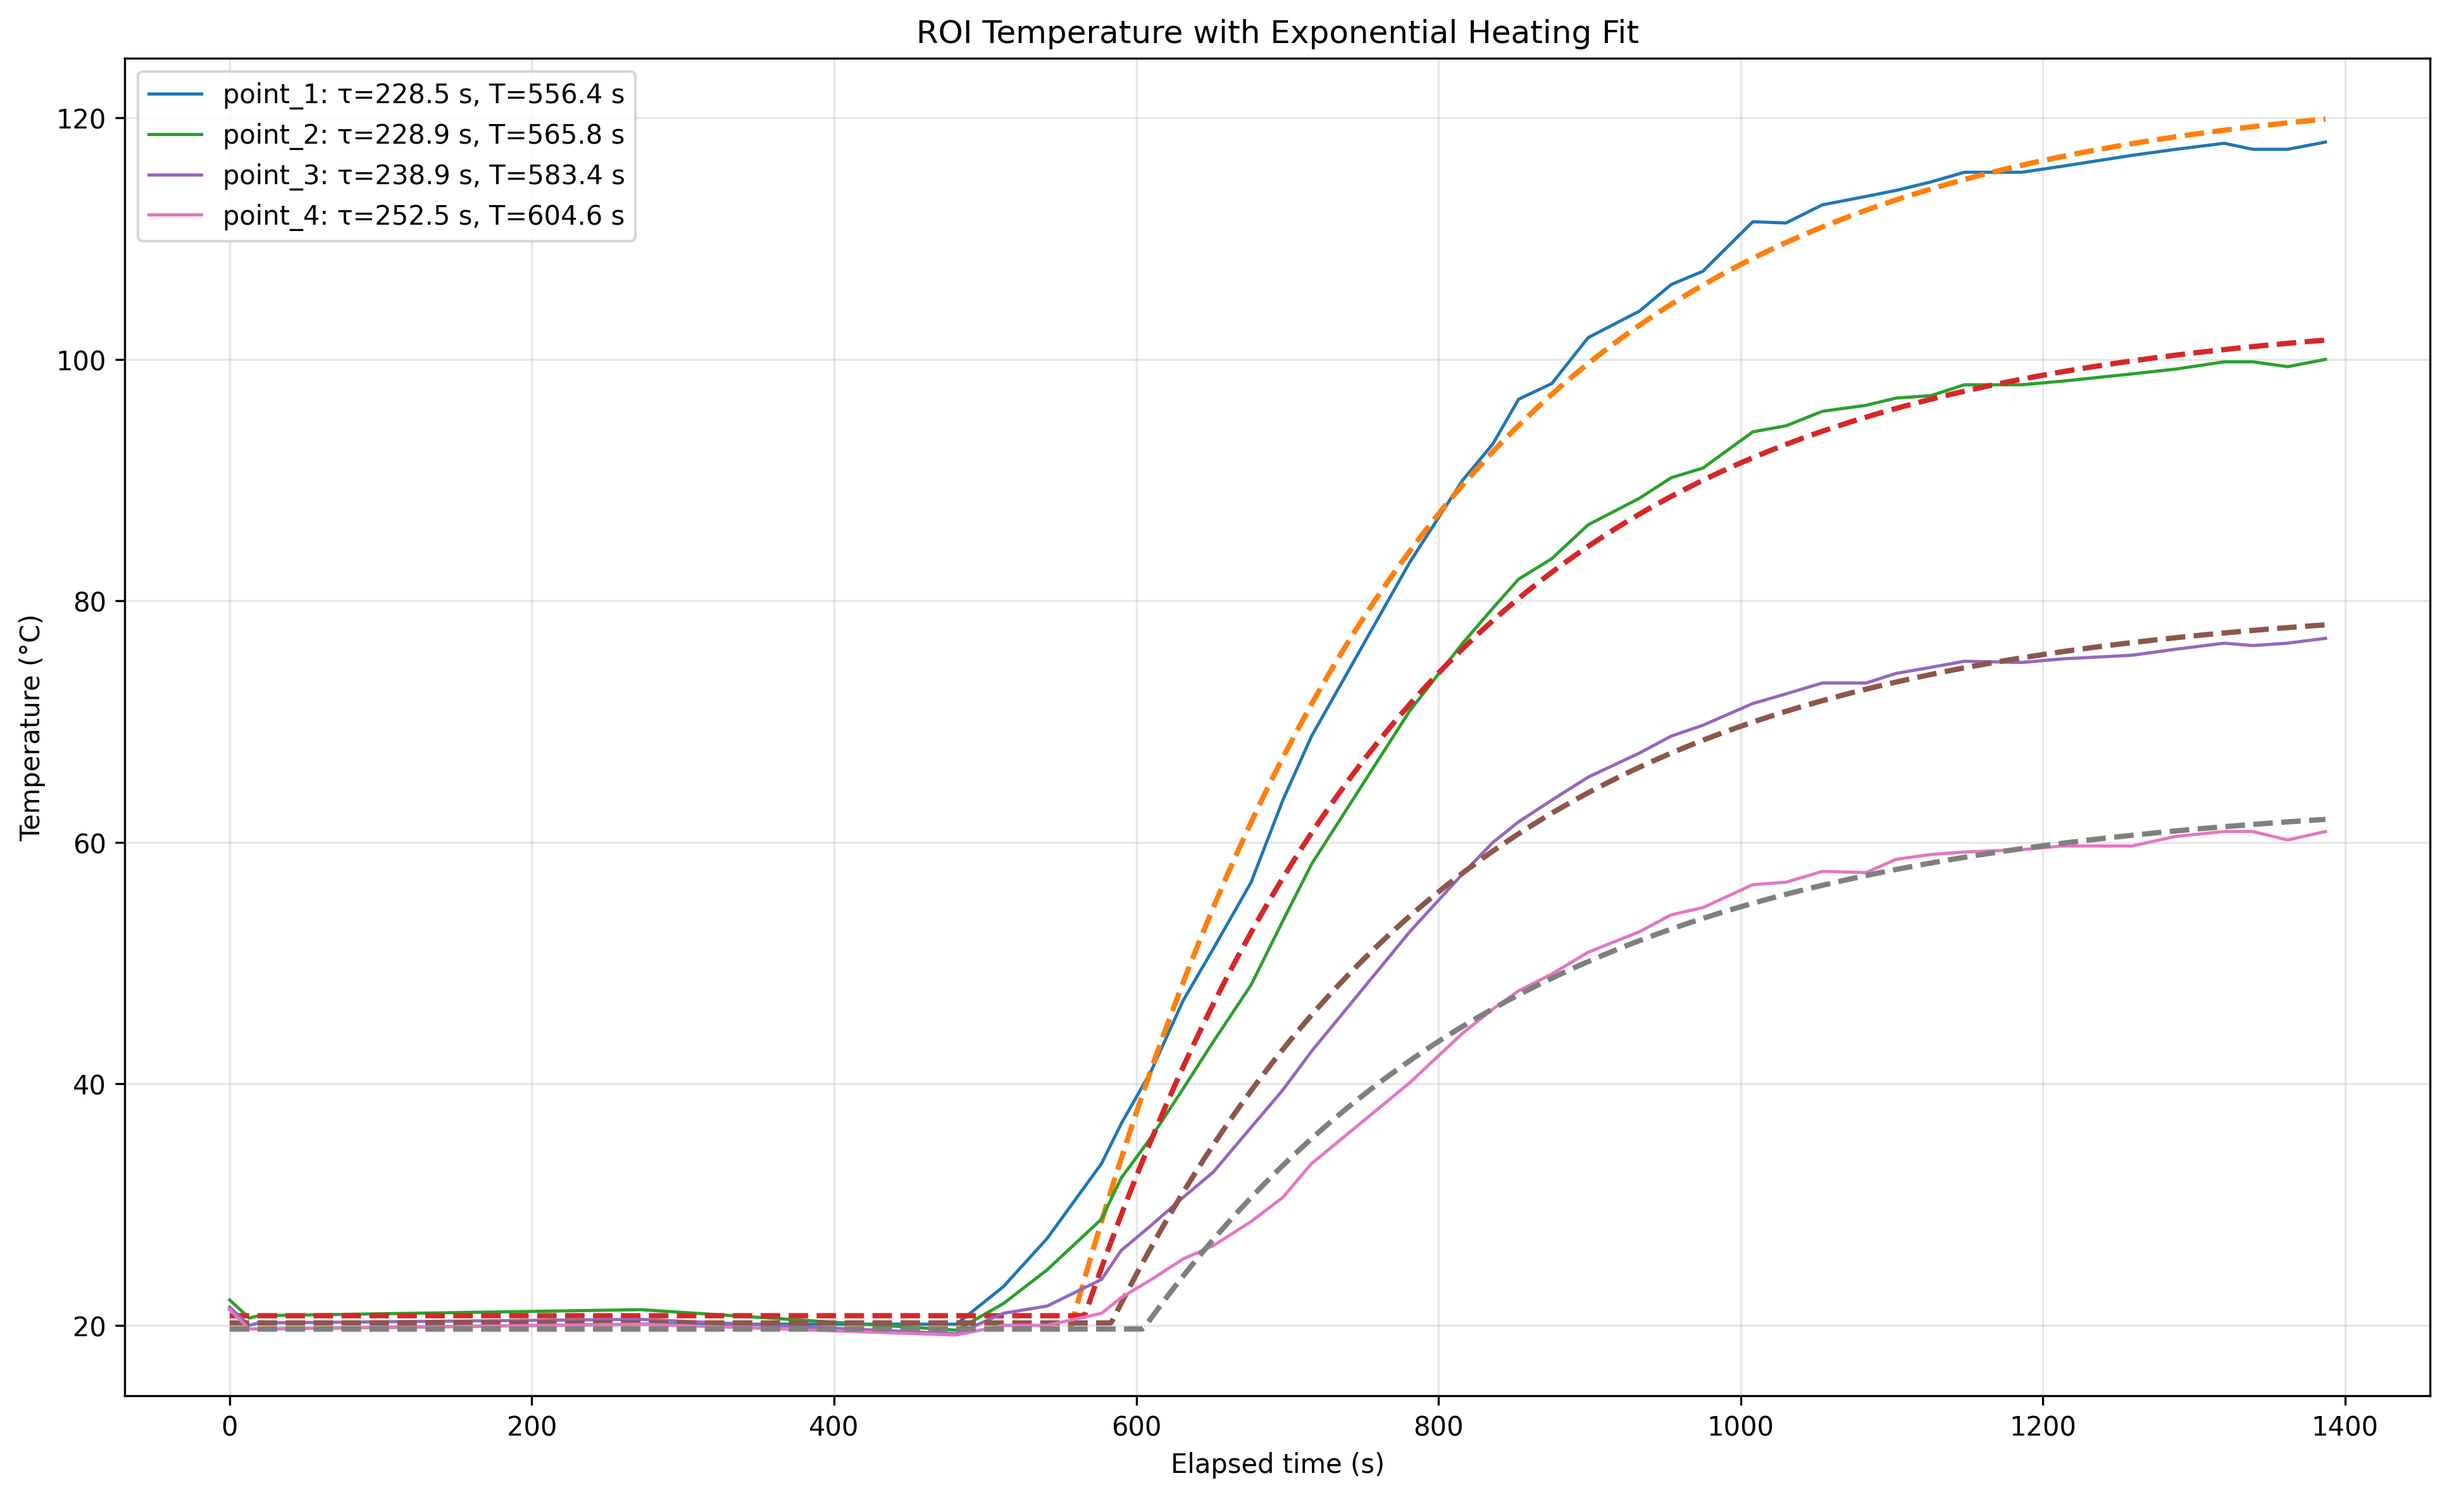
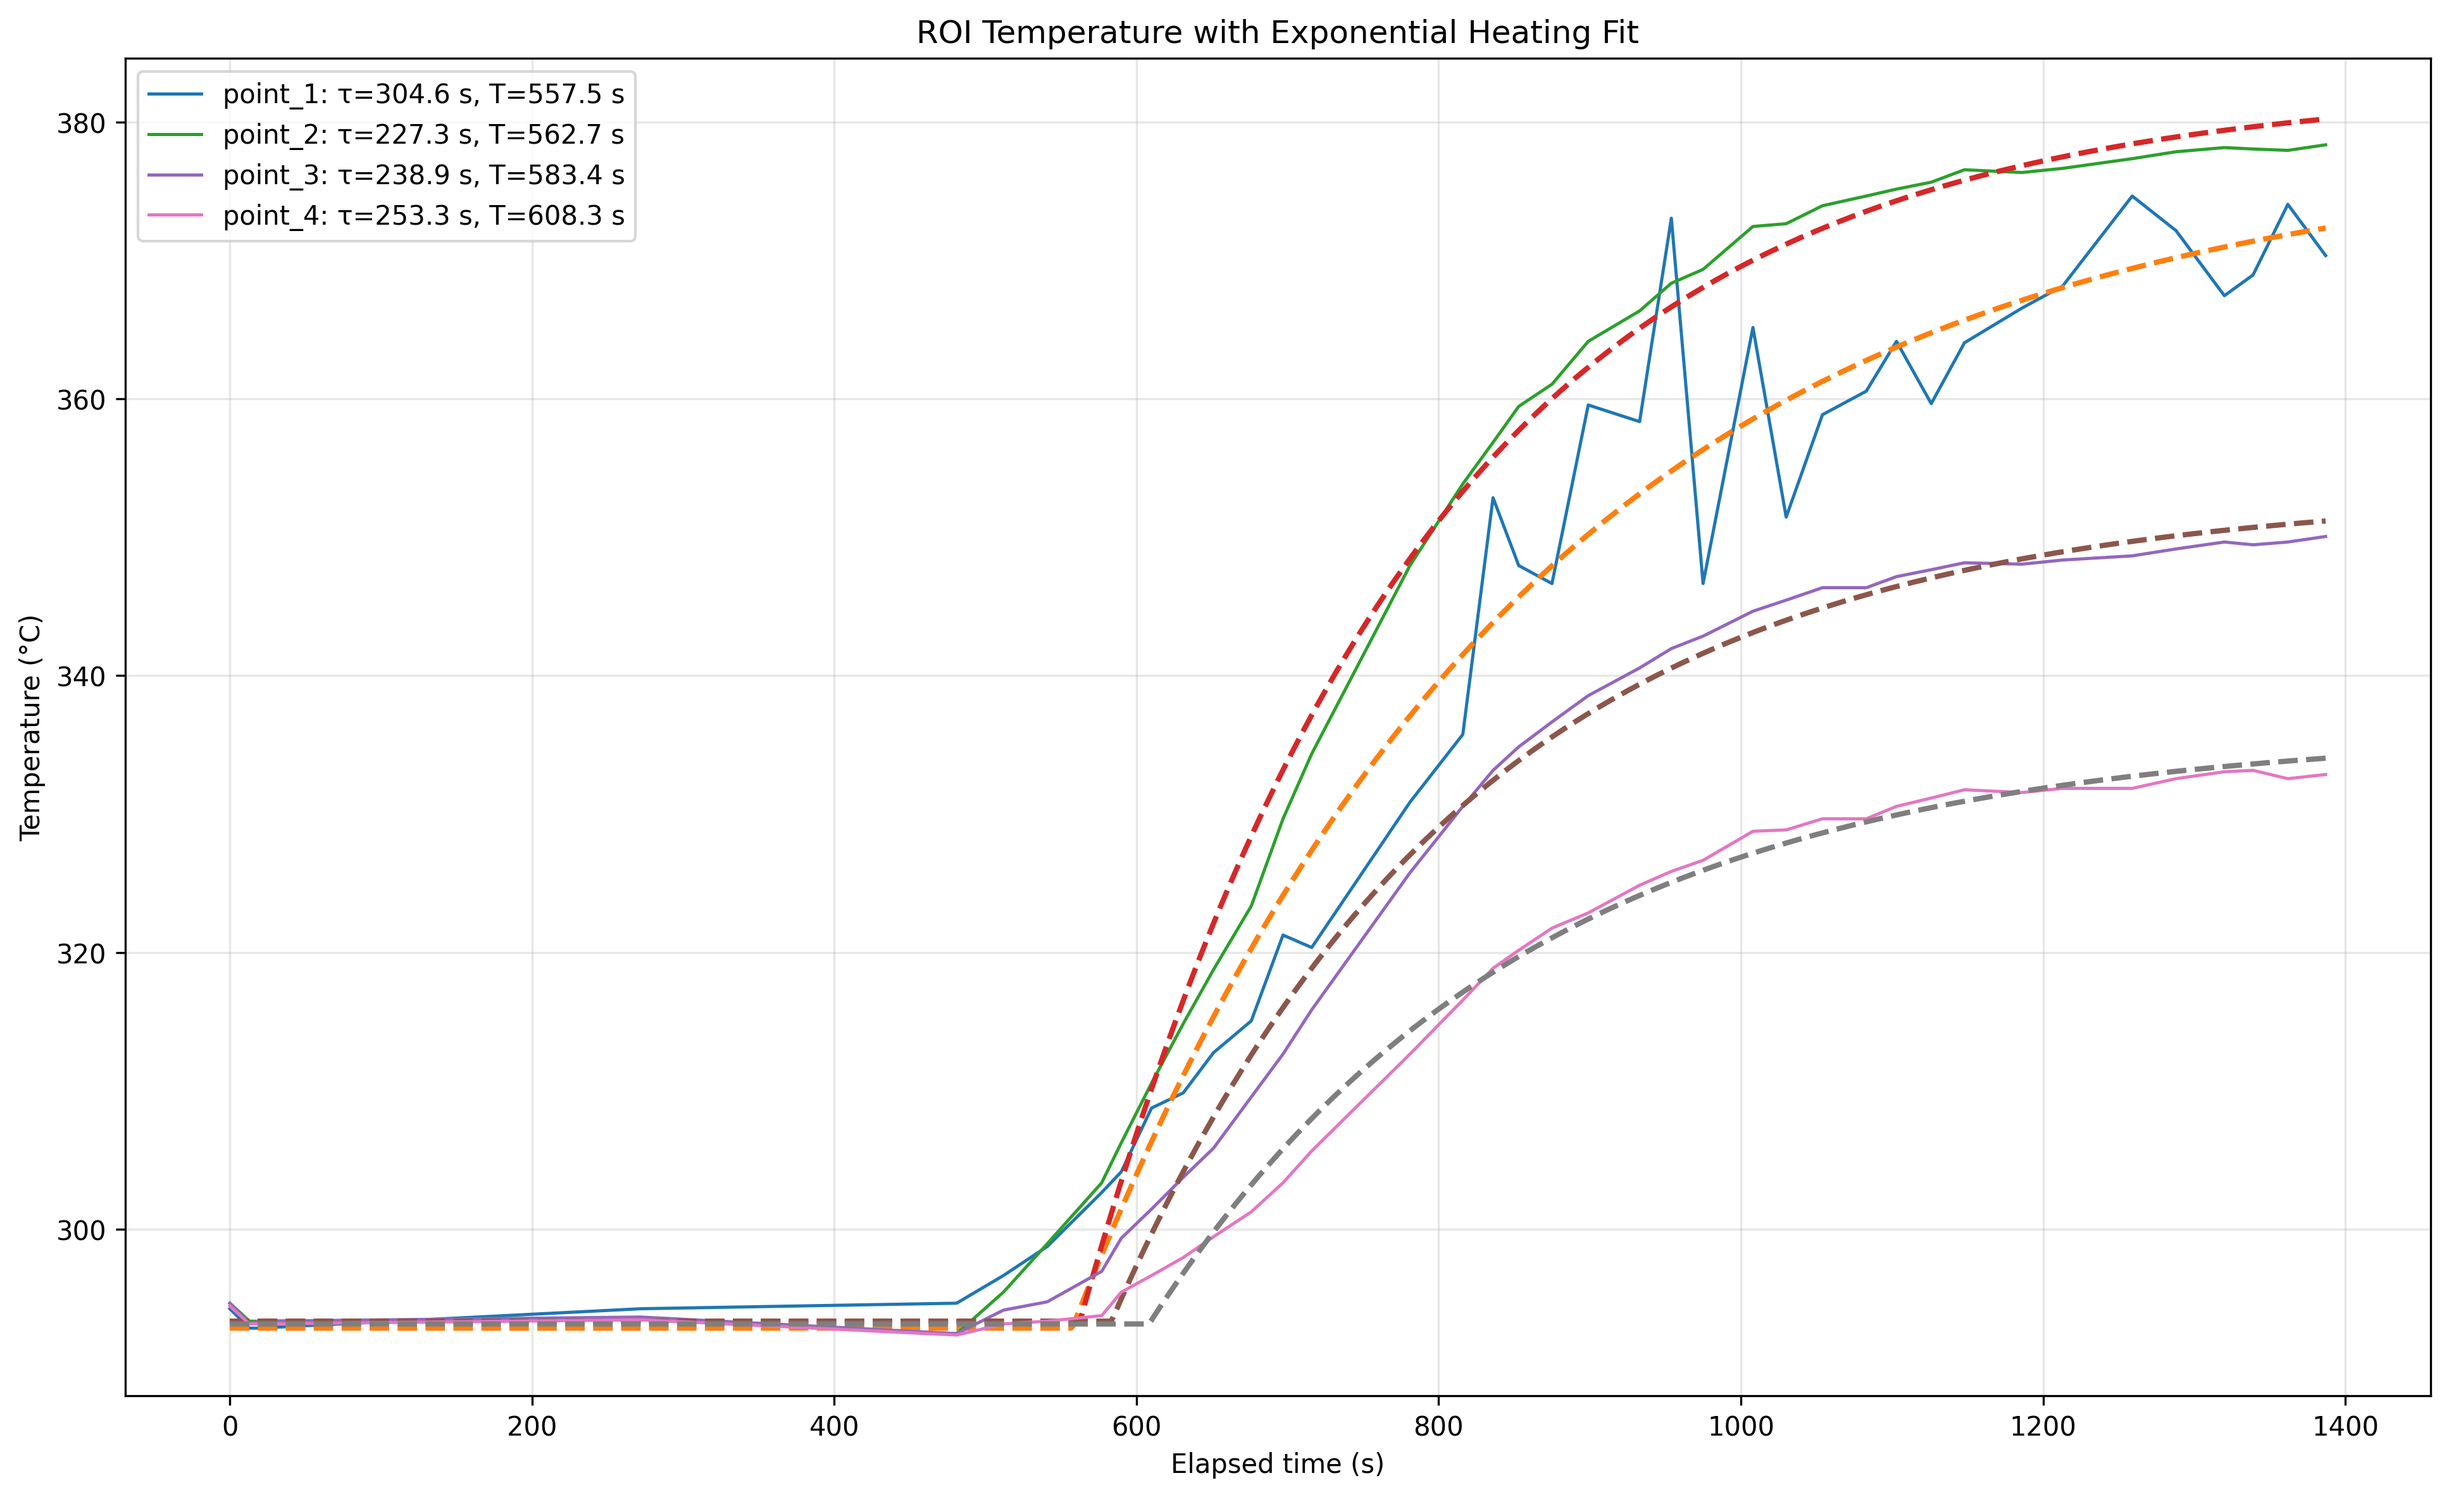
roi and fits

diff --git a/misc/animation_gif.py b/misc/animation_gif.py
@@ -1,5 +1,11 @@
 #!/usr/bin/env python3
 
+# Example:
+# python animation_gif.py outputs/simulation2/results
+#
+# With custom time per frame:
+# python animation_gif.py outputs/simulation2/results 0.3
+
 import re
 import sys
 from pathlib import Path
@@ -14,13 +20,19 @@ def create_timestamp_gif(
     dt_per_frame=0.1,
 ):
     """
-    Creates an animated GIF from a numbered PNG sequence.
+    Creates an animated GIF from numbered image files.
 
-    Accepted filenames:
+    Accepted filenames include:
 
         metal.0000.png
         temperature.0012.png
         animation1.0045.png
+
+        IR_00364.jpg
+        IR_00365.jpg
+        IR_00366.jpg
+
+        frame_0001.jpeg
 
     The GIF is written to the same directory.
     """
@@ -32,16 +44,37 @@ def create_timestamp_gif(
             f"Folder does not exist:\n{folder.resolve()}"
         )
 
+    # --------------------------------------------------------
     # Allow passing the simulation folder instead of results
+    # --------------------------------------------------------
+
     if (folder / "results").is_dir():
         folder = folder / "results"
 
-    # Match: anything.NUMBER.png
-    pattern = re.compile(r"^(.+)\.(\d+)\.png$")
+    # --------------------------------------------------------
+    # Match numbered image files
+    #
+    # Accepted:
+    #
+    #   name.0001.png
+    #   name_0001.png
+    #   name.0001.jpg
+    #   name_0001.jpg
+    #
+    # The separator can be "." or "_".
+    # --------------------------------------------------------
+
+    pattern = re.compile(
+        r"^(.+?)[._](\d+)\.(jpg|jpeg|png)$",
+        re.IGNORECASE,
+    )
 
     frames = []
 
-    for file in folder.glob("*.png"):
+    for file in folder.iterdir():
+
+        if not file.is_file():
+            continue
 
         match = pattern.match(file.name)
 
@@ -58,23 +91,50 @@ def create_timestamp_gif(
                 )
             )
 
+    # --------------------------------------------------------
+    # Check that frames were found
+    # --------------------------------------------------------
+
     if not frames:
         raise RuntimeError(
-            f"No numbered PNG files found in:\n{folder.resolve()}"
+            f"No numbered JPG/JPEG/PNG files found in:\n"
+            f"{folder.resolve()}"
         )
+
+    # --------------------------------------------------------
+    # Sort by frame number
+    # --------------------------------------------------------
 
     frames.sort(key=lambda x: x[0])
 
-    print(f"\nFound {len(frames)} frames")
+    print()
+    print("=" * 60)
+    print("GIF CREATION")
+    print("=" * 60)
+
+    print(f"Found {len(frames)} frames")
     print(f"Folder      : {folder.resolve()}")
     print(f"Sequence    : {frames[0][1]}")
     print(f"First frame : {frames[0][2].name}")
     print(f"Last frame  : {frames[-1][2].name}")
+    print(f"dt/frame    : {dt_per_frame} s")
+    print(f"GIF speed   : {frame_duration} ms/frame")
+
+    # --------------------------------------------------------
+    # Load font
+    # --------------------------------------------------------
 
     try:
-        font = ImageFont.truetype("arial.ttf", 24)
+        font = ImageFont.truetype(
+            "arial.ttf",
+            24
+        )
     except Exception:
         font = ImageFont.load_default()
+
+    # --------------------------------------------------------
+    # Create GIF frames
+    # --------------------------------------------------------
 
     gif_frames = []
 
@@ -86,10 +146,12 @@ def create_timestamp_gif(
 
         draw = ImageDraw.Draw(img)
 
+        # Calculate simulation time
         simulation_time = (
             frame_number - first_frame
         ) * dt_per_frame
 
+        # Add timestamp
         draw.text(
             (10, 10),
             f"t = {simulation_time:.2f} s",
@@ -98,6 +160,10 @@ def create_timestamp_gif(
         )
 
         gif_frames.append(img)
+
+    # --------------------------------------------------------
+    # Save GIF
+    # --------------------------------------------------------
 
     output_path = folder / output_name
 
@@ -110,20 +176,41 @@ def create_timestamp_gif(
         optimize=False,
     )
 
-    print("\nGIF created:")
+    print()
+    print("GIF created:")
     print(output_path.resolve())
+    print()
 
+
+# ============================================================
+# MAIN
+# ============================================================
 
 if __name__ == "__main__":
 
     if len(sys.argv) < 2:
+
         print("Usage:")
-        print("    python animation_gif.py <folder> [dt_per_frame]")
+        print()
+        print(
+            "    python animation_gif.py "
+            "<folder> [dt_per_frame]"
+        )
+
         print()
         print("Examples:")
-        print("    python animation_gif.py outputs/simulation1/results")
-        print("    python animation_gif.py outputs/simulation1/results/20260629")
-        print("    python animation_gif.py outputs/simulation1/results 0.1")
+        print()
+
+        print(
+            "    python animation_gif.py "
+            "outputs/simulation1/results"
+        )
+
+        print(
+            "    python animation_gif.py "
+            "outputs/simulation1/results 0.3"
+        )
+
         sys.exit(1)
 
     folder = sys.argv[1]

diff --git a/misc/extractor_experimento/experimental_roi_temperature_exponential_fit_5.py b/misc/extractor_experimento/experimental_roi_temperature_exponential_fit_5.py
@@ -335,6 +335,18 @@ def main():
         encoding="utf-8-sig"
     )
 
+    # ========================================================
+    # CONVERT TEMPERATURE FROM °C TO K
+    # ========================================================
+
+    for column in df.columns:
+        if column not in {"time", "elapsed_seconds"}:
+            df[column] = pd.to_numeric(
+                df[column],
+                errors="coerce"
+            )
+
+            df[column] = df[column] + 273.15
     # --------------------------------------------------------
     # Validate time column
     # --------------------------------------------------------
